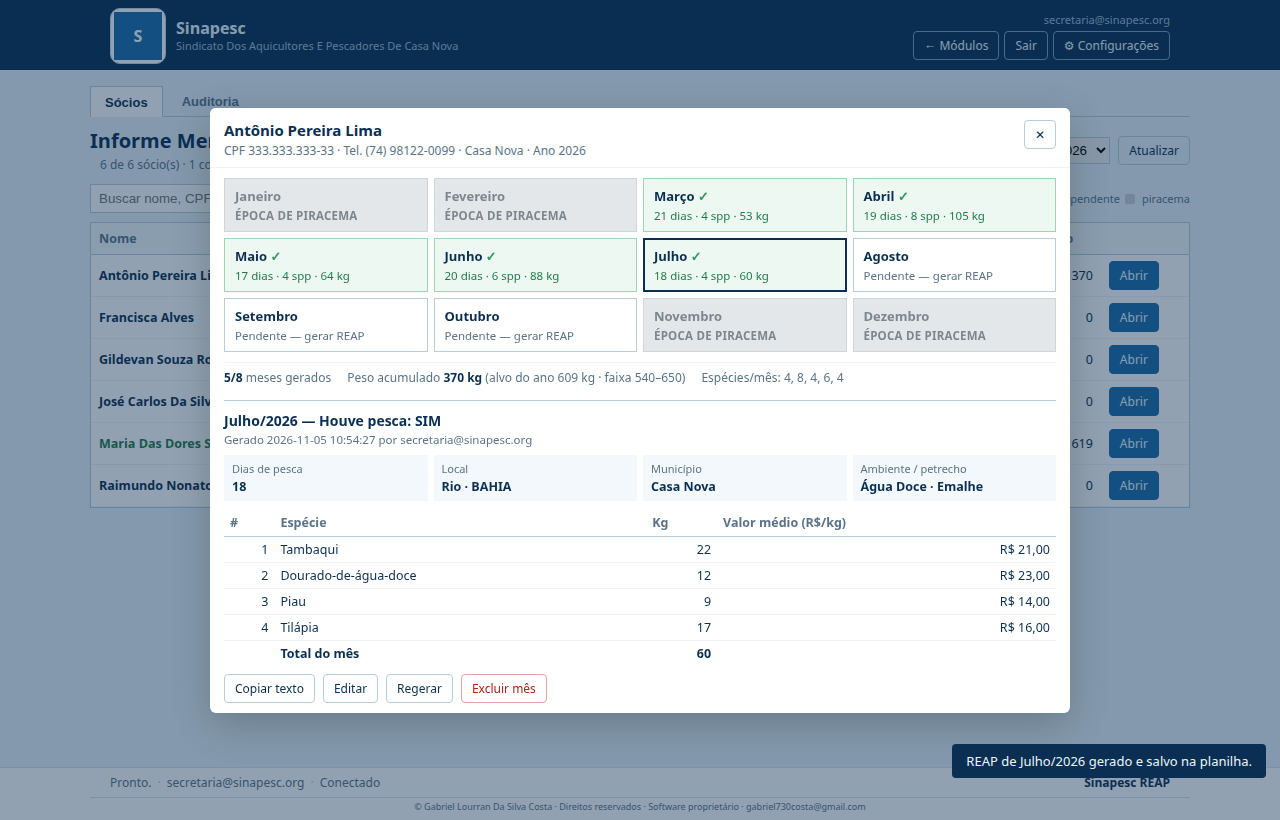
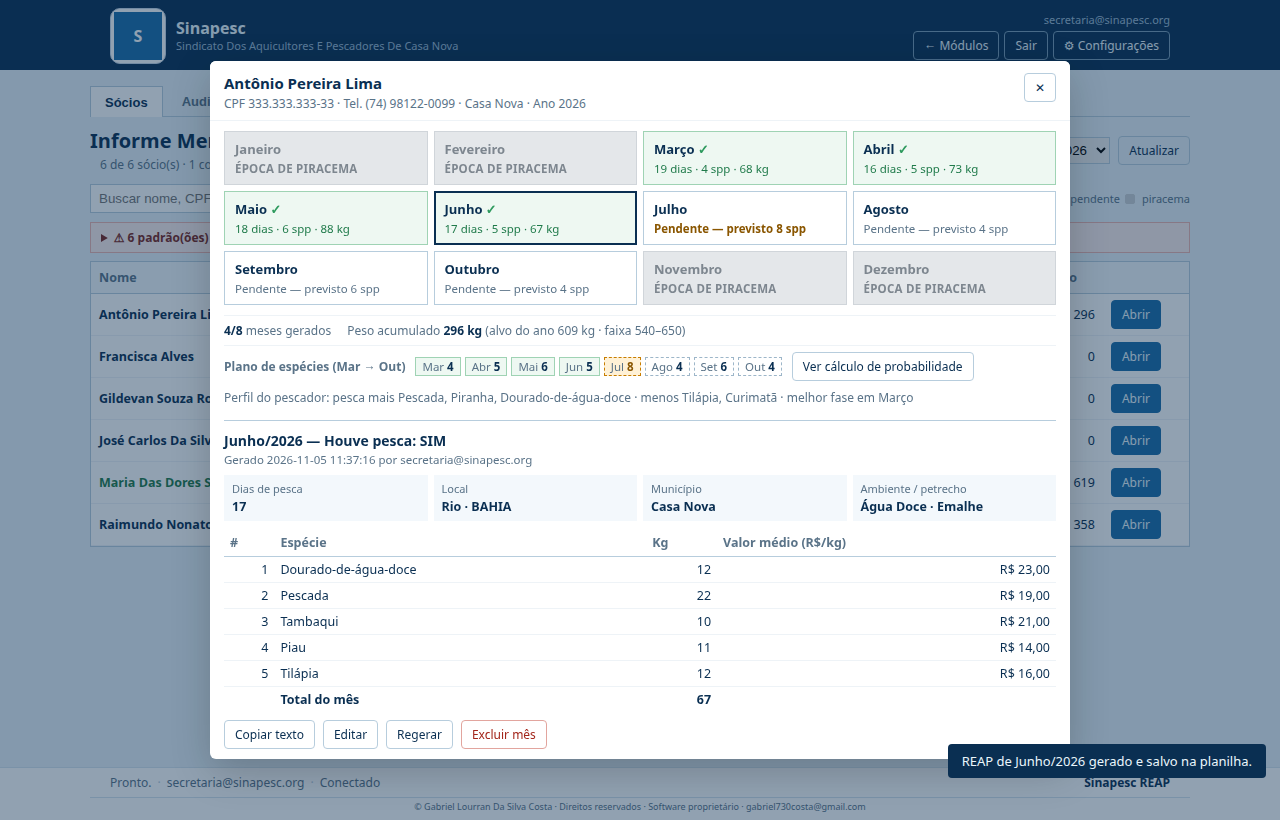
v1.8.1: versão, changelog, READMEs e guia do Informe Mensal

diff --git a/sinapesc-desktop/test_login_unico.py b/sinapesc-desktop/test_login_unico.py
@@ -44,7 +44,7 @@ def test_tk_labels_login_unico() -> None:
 
 def test_version_bump() -> None:
     theme = (ROOT / "ui" / "theme.py").read_text(encoding="utf-8")
-    assert 'APP_VERSION = "1.8.0"' in theme
+    assert 'APP_VERSION = "1.8.1"' in theme
 
 
 if __name__ == "__main__":

diff --git a/sinapesc-desktop/test_defeso_observacao.py b/sinapesc-desktop/test_defeso_observacao.py
@@ -98,7 +98,7 @@ def test_js_e_servico_observacao() -> None:
 
 def test_version() -> None:
     theme = (ROOT / "ui" / "theme.py").read_text(encoding="utf-8")
-    assert 'APP_VERSION = "1.8.0"' in theme
+    assert 'APP_VERSION = "1.8.1"' in theme
 
 
 if __name__ == "__main__":

diff --git a/sinapesc-desktop/test_filtros_relatorio_bugs.py b/sinapesc-desktop/test_filtros_relatorio_bugs.py
@@ -170,7 +170,7 @@ def test_csv_respeita_colunas() -> None:
 
 def test_version() -> None:
     theme = (ROOT / "ui" / "theme.py").read_text(encoding="utf-8")
-    assert 'APP_VERSION = "1.8.0"' in theme
+    assert 'APP_VERSION = "1.8.1"' in theme
 
 
 if __name__ == "__main__":

diff --git a/sinapesc-desktop/test_relatorio_municipio_consulta.py b/sinapesc-desktop/test_relatorio_municipio_consulta.py
@@ -166,7 +166,7 @@ def test_agrupar_helper():
 
 def test_version():
     theme = (ROOT / "ui" / "theme.py").read_text(encoding="utf-8")
-    assert 'APP_VERSION = "1.8.0"' in theme
+    assert 'APP_VERSION = "1.8.1"' in theme
 
 
 def test_ui_has_periodo_filter():

diff --git a/sinapesc-desktop/ui/theme.py b/sinapesc-desktop/ui/theme.py
@@ -1,6 +1,6 @@
 """Tema premium azul oceano — Sinapesc Casa Nova."""
 
-APP_VERSION = "1.8.0"
+APP_VERSION = "1.8.1"
 
 COLORS = {
     "bg": "#E7F1F7",

diff --git a/docs/INFORME-MENSAL.md b/docs/INFORME-MENSAL.md
@@ -1,9 +1,9 @@
 # Informe Mensal — REAP mês a mês por sócio
 
-**Versão:** v1.8.0 (2026-11-05)  
-**Download do EXE:** https://github.com/ANmoLOCK/sinapesc-casanova-reap/releases/download/v1.8.0/SinapescREAP-Windows-v1.8.0.zip  
-**Página da release:** https://github.com/ANmoLOCK/sinapesc-casanova-reap/releases/tag/v1.8.0  
-**Origem do cérebro:** pacote `reap-informe-mensal-v1.8.0.zip` (`cerebro_reformulacao.py` v4)
+**Versão:** v1.8.1 (2026-11-05)  
+**Download do EXE:** https://github.com/ANmoLOCK/sinapesc-casanova-reap/releases/download/v1.8.1/SinapescREAP-Windows-v1.8.1.zip  
+**Página da release:** https://github.com/ANmoLOCK/sinapesc-casanova-reap/releases/tag/v1.8.1  
+**Origem do cérebro:** pacote `reap-informe-mensal-v1.8.0.zip` (`cerebro_reformulacao.py` v4), refatorado na v1.8.1 para plano probabilístico por sócio (`v5-plano`)
 
 ---
 
@@ -26,7 +26,10 @@ Módulo novo do SINAPESC que gera o **REAP do Informe Mensal** de cada sócio, *
 - Os sócios vêm da aba **Pessoas** da planilha REAP: **nome, CPF, telefone e município**.
 - **Ano:** escolha o ano do informe (padrão: ano atual).
 - **Busca:** por nome, CPF ou telefone (com ou sem pontuação).
-- **Filtro:** Todos · Com meses pendentes · Nenhum mês gerado · Completos (Mar–Out) · Com avisos do cérebro.
+- **Filtro:** Todos · Com meses pendentes · Nenhum mês gerado · Completos (Mar–Out) · Com avisos do cérebro · **Com padrão igual a outro sócio**.
+- **Padrões iguais:** acima da tabela aparece uma faixa vermelha quando dois ou mais sócios têm o mesmo plano de quantidades, os mesmos kg por mês ou um mês idêntico (mesmas espécies e kg). Clique para ver quais sócios. Na lista eles ganham o selo vermelho **=**. Se não houver nenhum, a faixa fica verde.
+
+![Padrões iguais entre sócios](previews/informe-mensal/informe_09_padroes_iguais.png)
 - **Meses (Jan → Dez):** quadradinho verde = gerado, branco = pendente, cinza = piracema.
 - **Gerados:** quantos dos 8 meses de pesca já têm REAP. **Kg ano:** soma dos kg já gerados.
 - Clique na linha (ou em **Abrir**) para abrir a caixa do sócio.
@@ -43,7 +46,15 @@ Módulo novo do SINAPESC que gera o **REAP do Informe Mensal** de cada sócio, *
 | Novembro | **ÉPOCA DE PIRACEMA** (cinza, não clica) |
 | Dezembro | **ÉPOCA DE PIRACEMA** (cinza, não clica) |
 
-Abaixo dos meses aparece o resumo do ano: meses gerados (x/8), peso acumulado, alvo do ano do sócio, faixa 540–650 kg e a contagem de espécies por mês. Se alguma regra do ano estiver fora, aparece um aviso amarelo.
+Abaixo dos meses aparece:
+
+- o resumo do ano: meses gerados (x/8), peso acumulado, alvo do ano do sócio e faixa 540–650 kg;
+- o **Plano de espécies (Mar → Out)**: quantas espécies cada mês terá. Meses já gerados ficam em verde, previstos em tracejado e o mês de **8 espécies** (quando o sócio tem) em laranja. Os meses pendentes mostram *Pendente — previsto N spp*;
+- o **Perfil do pescador**: as espécies que ele mais pesca e menos pesca, e a fase do ano em que produz mais;
+- o botão **Ver cálculo de probabilidade**, que abre a tabela com a chance de cada quantidade por mês (seção 5.5);
+- um aviso vermelho se o sócio tiver padrão igual ao de outro sócio, e um aviso amarelo se alguma regra do ano estiver fora.
+
+![Plano e cálculo de probabilidade](previews/informe-mensal/informe_10_probabilidade.png)
 
 ### 4.1 Gerar o REAP de um mês
 
@@ -73,7 +84,7 @@ O detalhe mostra: houve pesca SIM, dias de pesca, local (Rio · BAHIA), municíp
 O sistema **não salva** se a edição quebrar uma regra do mês:
 
 - dias entre **16 e 21**;
-- **4, 5, 6 ou 8** espécies;
+- **4, 5, 6 ou 8** espécies (a quantidade pode sair do plano; se ficar igual à do mês vizinho ou passar do limite do ano, aparece aviso);
 - só peixes do catálogo, sem repetir no mesmo mês;
 - kg **inteiro entre 5 e 22**;
 - os kg não podem ser todos iguais;
@@ -122,15 +133,53 @@ Cada mês favorece peixes diferentes (mais kg e mais chance de entrar na lista):
 
 Como o operador gera **um mês por vez**, cada mês novo é calculado olhando os meses que o sócio já tem salvos:
 
-- **Quantidade de espécies:** o ano fecha com a mistura **4 / 5 / 6 / 8**, no máximo 3 meses com 4 (nada de `4,4,4,4,4,4,6,8`), e evita repetir a quantidade do mês vizinho.
+- **Quantidade de espécies:** segue o **plano anual do sócio** (seção 5.5): meses vizinhos nunca com a mesma quantidade, 4, 5 e 6 aparecem no ano, no máximo 3 meses de cada e **no máximo 1 mês com 8**, que só alguns sócios têm.
 - **Conjunto espécies + kg:** nunca igual ao de outro mês do ano.
 - **Posição dos peixes:** a ordem nunca se repete, e o primeiro peixe é diferente do primeiro do mês vizinho.
 - **Dias:** diferentes dos do mês vizinho e, quando possível, de todos os outros meses.
-- **Kg:** inteiros com viés da época; dentro do mês uns peixes pegam mais, outros menos.
+- **Kg humanizados por pessoa:** inteiros com o viés da época **e** do perfil do pescador. Cada sócio tem uma preferência própria por espécie (de 0,80 a 1,25) e um ritmo de produção ao longo do ano, com o pico num mês só dele. Assim dois sócios não pescam igual, mesmo com a mesma quantidade de espécies.
 - **Peso anual:** cada sócio tem um **alvo próprio** entre **540 e 650 kg** (fixo pelo CPF + ano). Os meses dividem esse alvo e o último mês gerado fecha a conta.
 - **Entre sócios:** a assinatura do mês é comparada com a de todos os sócios; nenhum mês sai idêntico ao de outro pescador.
 
 A ordem de geração não importa: o operador pode gerar Junho antes de Março.
+
+### 5.5 Plano de quantidades e cálculo de probabilidade
+
+Antes, todos os sócios caíam em sequências parecidas (ex.: `4,5,4,6,8,4,6,8`). Agora, no primeiro mês gerado, o cérebro **sorteia um plano de quantidades de espécies para Mar → Out**, próprio daquele sócio, e grava esse plano na coluna `planoContagens`. Os meses seguintes seguem o plano. Um mês regerado mantém a quantidade do plano e só troca espécies, kg e dias.
+
+Como o sorteio funciona:
+
+1. **Peso base de cada quantidade:** 4 → 40%, 5 → 33%, 6 → 27%.
+2. **Anti-repetição:** cada vez que uma quantidade já apareceu no ano do sócio, o peso dela é multiplicado por **0,45**. Quanto mais ela já saiu, menor a chance de sair de novo.
+3. **Vizinhos:** um mês nunca tem a mesma quantidade do mês anterior nem do seguinte.
+4. **8 espécies:** antes do sorteio, cada sócio tem **35% de chance** de ganhar **um único** mês com 8 espécies. Esse mês cai de preferência no meio da safra (pesos Mar 0,55 · Abr 0,8 · Mai 1,0 · Jun 1,25 · Jul 1,25 · Ago 1,0 · Set 0,8 · Out 0,55). Os outros 65% dos sócios não têm mês de 8.
+5. **Fechamento do ano:** 4, 5 e 6 precisam aparecer e nenhuma quantidade passa de 3 meses.
+6. **Entre sócios:** o plano é sorteado de novo enquanto for igual ao de outro sócio do mesmo ano. As regras permitem cerca de 1.900 planos diferentes, dos quais 222 sem mês de 8. Se um sindicato muito grande esgotar os planos de uma categoria, o cérebro repete o plano **menos usado** e o caso aparece em **Padrões iguais**, em vez de forçar mais sócios para o 8.
+
+O botão **Ver cálculo de probabilidade** mostra o resultado de 4.000 simulações desse sorteio. Com as regras atuais:
+
+| Quantidade | Mar | Abr | Mai | Jun | Jul | Ago | Set | Out |
+|-----------|----:|----:|----:|----:|----:|----:|----:|----:|
+| 4 espécies | ~38% | ~33% | ~32% | ~34% | ~32% | ~32% | ~36% | ~31% |
+| 5 espécies | ~31% | ~34% | ~32% | ~30% | ~33% | ~31% | ~32% | ~32% |
+| 6 espécies | ~27% | ~29% | ~32% | ~29% | ~30% | ~29% | ~29% | ~35% |
+| 8 espécies | ~2,5% | ~4% | ~5% | ~6% | ~5% | ~5% | ~4% | ~2% |
+
+- Chance de um sócio ter um mês de 8: **≈ 35%**.
+- Na simulação de 300 sócios gerando o ano em ordem aleatória: **300 planos diferentes**, 35% dos sócios com um mês de 8, nenhuma regra quebrada e peso anual sempre entre 540 e 650 kg.
+
+### 5.6 Padrões iguais
+
+Ao carregar a lista, o sistema compara todos os sócios do ano e aponta:
+
+| Tipo | Quando aparece |
+|------|----------------|
+| Mesmo plano anual | dois sócios com o mesmo plano de quantidades (ex.: `4-6-5-4-5-6-4-6`) |
+| Mesma quantidade por mês | anos ainda incompletos (4 meses ou mais) com a mesma sequência de quantidades |
+| Mesmos kg por mês | mesmos kg totais em todos os meses gerados |
+| Mês idêntico | o mesmo mês com as mesmas espécies e os mesmos kg em dois sócios |
+
+Depois de cada **Gerar**, se o sócio ficar igual a outro, também aparece um aviso na tela.
 
 ## 6. Auditoria
 
@@ -169,7 +218,8 @@ O módulo usa a **mesma planilha do REAP** (`spreadsheet_id` do `config.json`). 
 | assinatura | impressão digital do mês (anti-repetição) |
 | geradoEm, geradoPor | quem gerou e quando |
 | atualizadoEm, atualizadoPor | última alteração |
-| motor | `cerebro_reformulacao/v4-mensal` (ou `+manual` após edição) |
+| motor | `cerebro_reformulacao/v5-plano` (ou `+manual` após edição; linhas antigas ficam com `v4-mensal`) |
+| planoContagens | plano do sócio para Mar → Out, ex.: `4-6-5-4-8-5-6-4` (coluna Y, nova na v1.8.1) |
 
 ### 7.2 Aba `InformeAuditoria`
 
@@ -192,7 +242,10 @@ O módulo usa a **mesma planilha do REAP** (`spreadsheet_id` do `config.json`). 
 
 ## 9. Testes feitos
 
-- 120 sócios simulados, cada um gerando os 8 meses em ordem aleatória: nenhuma regra quebrada, peso anual sempre entre 540 e 650 kg.
+- 120 sócios simulados, cada um gerando os 8 meses em ordem aleatória: nenhuma regra quebrada, peso anual sempre entre 540 e 650 kg, 120 planos diferentes, vizinhos sempre com quantidades diferentes, no máximo 1 mês de 8.
+- Probabilidades: cada mês soma 100%; a chance de ter um mês de 8 fica entre 30% e 40%; com Março salvo com 6, Abril nunca sai com 6.
+- Padrões iguais: um sócio clonado é detectado (plano, kg e mês idêntico); sócios diferentes não geram alerta.
+- Perfil: estável por CPF + ano e diferente entre pescadores.
 - Regerar, bloqueio da piracema, validação da edição, gravação/exclusão na planilha (cliente falso) e auditoria.
 - Fluxo completo da API: gerar 8 meses, regerar, editar, excluir, auditoria.
 - Fluxo da tela em navegador: gerar, editar, salvar e conferir a auditoria (as capturas deste documento).
@@ -204,7 +257,17 @@ cd sinapesc-desktop
 python test_informe_mensal.py
 ```
 
-## 10. Mudanças da v1.8.0
+## 10. Mudanças da v1.8.1
+
+- **Plano de quantidades por sócio**, sorteado com probabilidade e gravado na planilha (coluna `planoContagens`). Acaba o padrão repetido do tipo `4,5,4,6,8,4,6,8`.
+- **8 espécies só para ~35% dos sócios**, no máximo 1 mês, de preferência no meio da safra.
+- **Anti-repetição:** a mesma quantidade nunca em meses vizinhos, e cada repetição no ano reduz a chance (×0,45). O plano não repete o de outro sócio.
+- **Kg humanizados por pessoa:** preferência por espécie e ritmo do ano próprios de cada pescador.
+- **Cálculo de probabilidade** na caixa do sócio.
+- **Padrões iguais** entre sócios: faixa na lista, filtro, selo **=** e aviso ao gerar.
+- Meses pendentes mostram a quantidade prevista.
+
+## 11. Mudanças da v1.8.0
 
 - Botão **Informe Mensal** ao lado de **Abrir REAP**.
 - Lista de sócios com busca, filtros, ano e progresso Jan → Dez.

diff --git a/README.md b/README.md
@@ -11,25 +11,25 @@ Controle de **REAP** (não é pagamento): a secretaria usa o EXE no Windows; o a
 | | |
 |--|--|
 | Repositório | https://github.com/ANmoLOCK/sinapesc-casanova-reap |
-| Versão atual | [**v1.8.0**](https://github.com/ANmoLOCK/sinapesc-casanova-reap/releases/tag/v1.8.0) |
+| Versão atual | [**v1.8.1**](https://github.com/ANmoLOCK/sinapesc-casanova-reap/releases/tag/v1.8.1) |
 | Site (consulta) | https://anmolock.github.io/sinapesc-casanova-reap/consulta.html |
 | Planilha (leitor) | https://docs.google.com/spreadsheets/d/1ydaWGF53VTkXyIyhf5XKJek5PKMDZO1_cD3CrRePft4/edit?usp=sharing |
 
 ---
 
-## Download do EXE (v1.8.0)
+## Download do EXE (v1.8.1)
 
 **Link direto (ZIP):**
 
-https://github.com/ANmoLOCK/sinapesc-casanova-reap/releases/download/v1.8.0/SinapescREAP-Windows-v1.8.0.zip
+https://github.com/ANmoLOCK/sinapesc-casanova-reap/releases/download/v1.8.1/SinapescREAP-Windows-v1.8.1.zip
 
-Página da release: https://github.com/ANmoLOCK/sinapesc-casanova-reap/releases/tag/v1.8.0
+Página da release: https://github.com/ANmoLOCK/sinapesc-casanova-reap/releases/tag/v1.8.1
 
-Versão anterior: [v1.7.56](https://github.com/ANmoLOCK/sinapesc-casanova-reap/releases/tag/v1.7.56)
+Versão anterior: [v1.8.0](https://github.com/ANmoLOCK/sinapesc-casanova-reap/releases/tag/v1.8.0)
 
 Guia Defeso: [`docs/DEFESO-FACIL.md`](./docs/DEFESO-FACIL.md)
 
-Guia Informe Mensal (v1.8.0): [`docs/INFORME-MENSAL.md`](./docs/INFORME-MENSAL.md)
+Guia Informe Mensal (v1.8.1): [`docs/INFORME-MENSAL.md`](./docs/INFORME-MENSAL.md)
 
 O ZIP traz `SinapescREAP.exe`, `config.json`, `LEIA-ME.txt` e tutoriais. Extraia numa pasta (ex.: `C:\Sinapesc\`) e coloque o `google-credentials.json` junto.
 
@@ -51,7 +51,14 @@ O site lê só as abas **Pessoas** e **Reap**. CPF no celular fica **mascarado**
 
 ---
 
-## O que há na v1.8.0
+## O que há na v1.8.1
+
+- **Informe Mensal com plano probabilístico por sócio:** cada sócio tem a própria sequência de quantidades de espécies (Mar → Out), sem repetir em meses vizinhos e sem copiar a de outro sócio
+- **8 espécies só para ~35% dos sócios**, no máximo 1 mês no ano; botão **Ver cálculo de probabilidade** mostra a chance por mês
+- **Kg humanizados por pescador** (preferência por espécie e ritmo do ano próprios)
+- **Padrões iguais** entre sócios apontados na lista (faixa, filtro e selo **=**)
+
+## O que havia na v1.8.0
 
 - Novo módulo **Informe Mensal** (botão ao lado de **Abrir REAP**): REAP mês a mês por sócio, salvo na aba `InformeMensal` da planilha REAP
 - Jan / Fev / Nov / Dez em cinza — **ÉPOCA DE PIRACEMA**; Mar → Out geram pelo cérebro v4 sem repetir espécies, kg, posições ou dias

diff --git a/CHANGELOG.md b/CHANGELOG.md
@@ -6,6 +6,20 @@ Formato: mais recente primeiro.
 
 ---
 
+## [v1.8.1] — 2026-11-05 — Informe Mensal: plano probabilístico e padrões iguais
+
+**Tag:** [`v1.8.1`](https://github.com/ANmoLOCK/sinapesc-casanova-reap/releases/tag/v1.8.1)  
+**Download:** https://github.com/ANmoLOCK/sinapesc-casanova-reap/releases/download/v1.8.1/SinapescREAP-Windows-v1.8.1.zip
+
+- Cada sócio ganha um **plano próprio de quantidades de espécies (Mar → Out)**, sorteado com probabilidade e gravado na coluna `planoContagens`. Acaba a sequência repetida `4,5,4,6,8,4,6,8`
+- Pesos base 4 → 40%, 5 → 33%, 6 → 27%; cada repetição no ano multiplica a chance por 0,45; meses vizinhos nunca com a mesma quantidade
+- **8 espécies só para ~35% dos sócios**, no máximo 1 mês, de preferência no meio da safra
+- O plano não repete o de outro sócio do mesmo ano; se os planos de uma categoria se esgotarem, repete o menos usado e aponta em Padrões iguais
+- **Kg humanizados por pessoa**: preferência por espécie (0,80–1,25) e ritmo de produção do ano próprios de cada pescador
+- Caixa do sócio: chips do plano, quantidade prevista nos meses pendentes, perfil do pescador e **cálculo de probabilidade** (4.000 simulações)
+- **Padrões iguais** entre sócios (mesmo plano, mesmos kg, mês idêntico): faixa na lista, filtro, selo **=** e aviso ao gerar
+- Guia atualizado: [`docs/INFORME-MENSAL.md`](./docs/INFORME-MENSAL.md) (seções 5.5 e 5.6)
+
 ## [v1.8.0] — 2026-11-05 — Módulo Informe Mensal (REAP mês a mês)
 
 **Tag:** [`v1.8.0`](https://github.com/ANmoLOCK/sinapesc-casanova-reap/releases/tag/v1.8.0)  

diff --git a/sinapesc-desktop/README.md b/sinapesc-desktop/README.md
@@ -15,9 +15,9 @@ A interface padrão é **HTML/CSS** dentro da janela (WebView2), idêntica ao mo
 
 ## Versão
 
-**v1.8.0** — Novo módulo **Informe Mensal**: REAP mês a mês por sócio (cérebro v4), salvo na planilha REAP, com auditoria. Guia: [../docs/INFORME-MENSAL.md](../docs/INFORME-MENSAL.md)
+**v1.8.1** — Informe Mensal com plano de quantidades probabilístico por sócio (8 espécies só para ~35%, no máx. 1 mês), kg humanizados por pescador e detecção de padrões iguais entre sócios. Guia: [../docs/INFORME-MENSAL.md](../docs/INFORME-MENSAL.md)
 
-**Download:** [SinapescREAP-Windows-v1.8.0.zip](https://github.com/ANmoLOCK/sinapesc-casanova-reap/releases/download/v1.8.0/SinapescREAP-Windows-v1.8.0.zip)
+**Download:** [SinapescREAP-Windows-v1.8.1.zip](https://github.com/ANmoLOCK/sinapesc-casanova-reap/releases/download/v1.8.1/SinapescREAP-Windows-v1.8.1.zip)
 
 **v1.7.56** — Relatórios: aviso/CSV respeitam colunas escolhidas.
 
